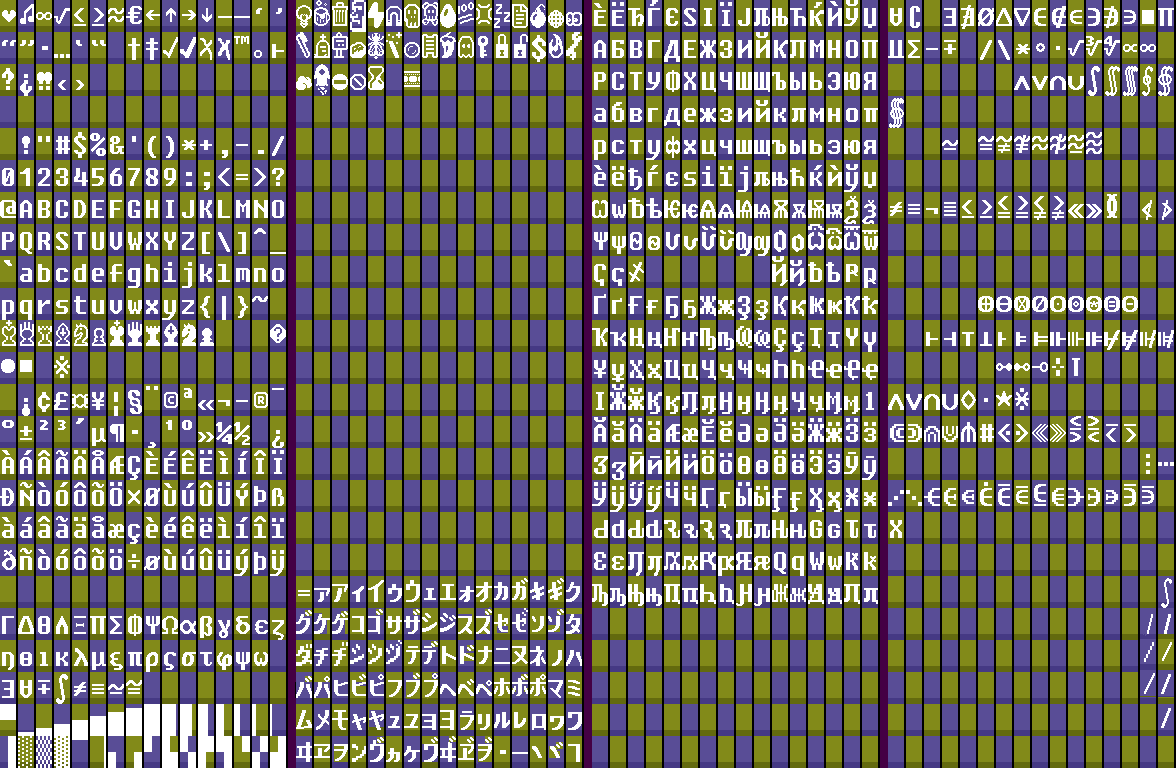
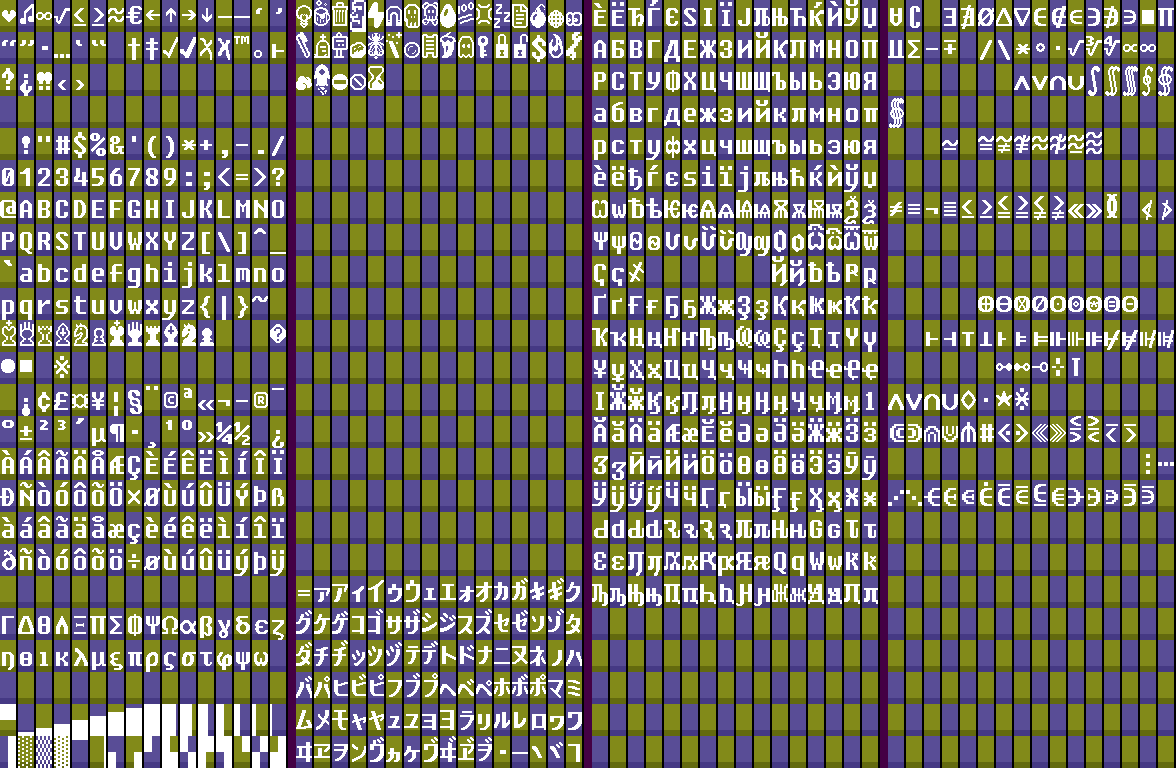
Move math out of bit7-classic page since it now has a proper home. Tweaks to 2x and light 2x.
git-svn-id: file:///home/runner/work/tom7misc-sync-action/tom7misc-sync-action/upstream/trunk@6078 c7e11af0-4c7a-11f1-9edd-117cb6f09d55

diff --git a/bit7/font-image.cc b/bit7/font-image.cc
@@ -46,8 +46,6 @@ inline static bool PageUsesEmptyGlyphs(Page p) {
 //  - To move glyphs between pages, first duplicate them, then
 //    normalize, then set the sources to -1, then normalize again.
 
-// TODO: Move math page out of classic page.
-
 // Standard size is: 16x24
 const std::vector<int> &PageBit7Classic() {
   static const std::vector<int> CODEPOINTS = {
@@ -194,17 +192,9 @@ const std::vector<int> &PageBit7Classic() {
     // one unclaimed spot at the end of greek
     -1,
 
-    // math
-    // exists, forall
-    0x2203, 0x2200,
-    // rest of math, unclaimed
-    0x2213, // minus-plus
-    0x222B, // integral sign
-    0x2260, // not equal
-    0x2261, // identical to (triple-eq)
-    0x2243, // asymptotically equal to (~ on -)
-    0x2245, // almost equal (~ on =)
-
+    // This was once some basic math symbols, but I moved them
+    // to the proper unicode page.
+    -1, -1, -1, -1, -1, -1, -1, -1,
     -1, -1, -1, -1, -1, -1, -1, -1,
 
     // Block Elements, in unicode order
